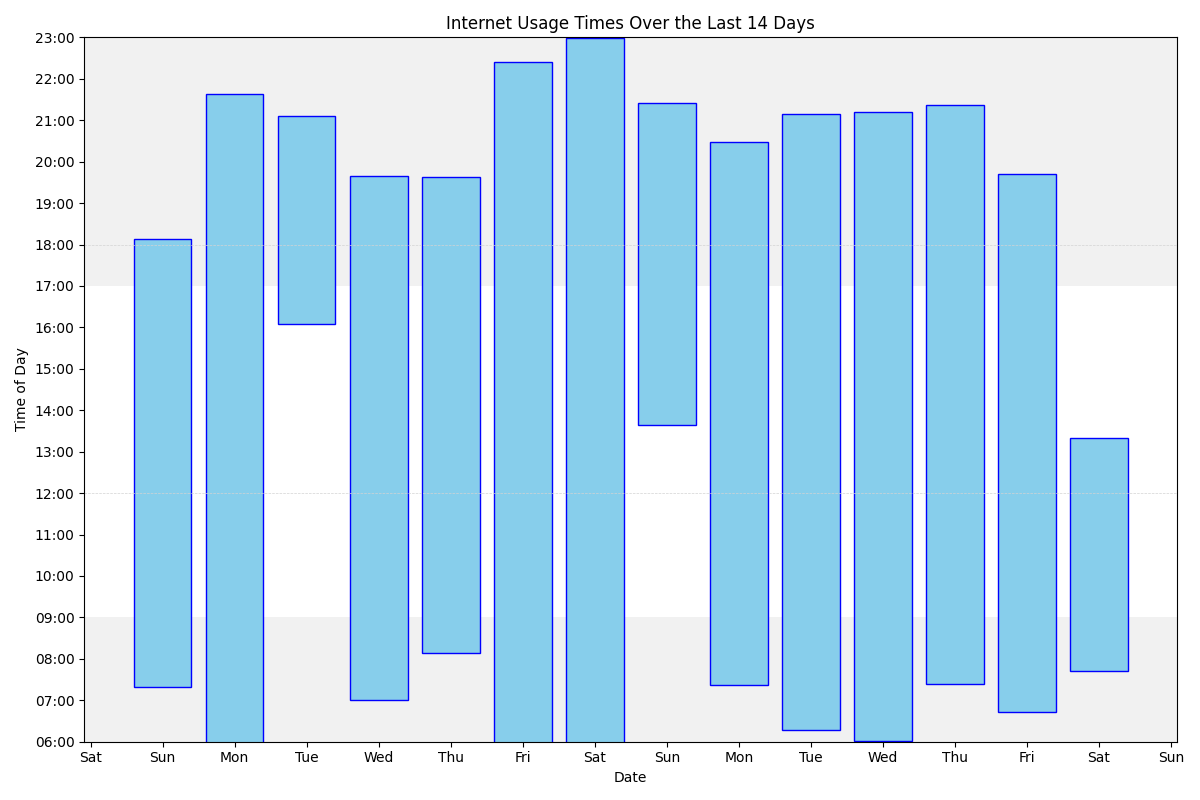
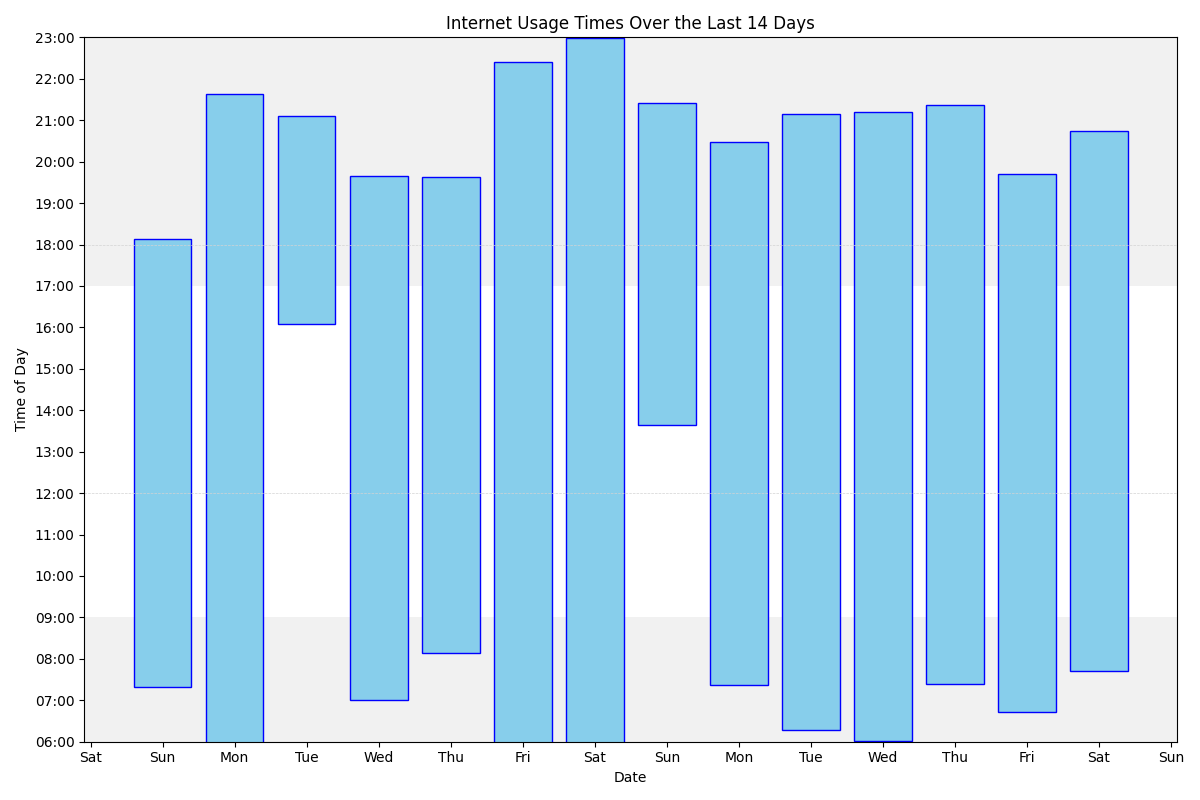
Update

Changed region(s): [[0.8633, 0.1562, 0.9558, 0.5625]]

diff --git a/index.md b/index.md
@@ -68,7 +68,7 @@ ul>li::after {
 <h3> Most common sites</h3>
 With number of accesses/minutes in parentheses
 
-<ol><li>www.google.com (2783)</li>
+<ol><li>www.google.com (2785)</li>
 <li>outlook.office.com (2243)</li>
 <li>mail.google.com (2131)</li>
 <li>docs.google.com (1769)</li>
@@ -79,7 +79,7 @@ With number of accesses/minutes in parentheses
 <li>duckduckgo.com (769)</li>
 <li>www.amazon.co.uk (658)</li>
 <li>chatgpt.com (596)</li>
-<li>www.theguardian.com (531)</li>
+<li>www.theguardian.com (533)</li>
 <li>calendar.google.com (442)</li>
 <li>rhul-my.sharepoint.com (442)</li>
 <li>www.linkedin.com (409)</li>
@@ -105,6 +105,27 @@ With number of accesses/minutes in parentheses
 <ul></ul>
 
 <H3>Saturday, 19/04/25</H3>
+
+<br>
+
+<ul><li> 20:44 www.theguardian.com</li>
+</ul>
+
+<br>
+
+<ul><li> 19:16 www.independent.co.uk</li>
+<li class='same'> 18:57 www.independent.co.uk</li>
+<li> 18:56 www.google.com</li>
+<li> 18:55 www.theguardian.com</li>
+<li> 18:55 <a href="https://www.bbc.co.uk/news/articles/cewgj1p79j4o">Man admits dangerous driving after seven officers hurt in crash - BBC News</a></li>
+</ul>
+
+<br>
+
+<ul><li class='same'> 16:02 <a href="https://www.bbc.co.uk/news/articles/cewgj1p79j4o">Man admits dangerous driving after seven officers hurt in crash - BBC News</a></li>
+<li> 16:02 <a href="https://www.bbc.co.uk/news">Home - BBC News</a></li>
+<li> 16:02 www.google.com</li>
+</ul>
 
 <br>
 
